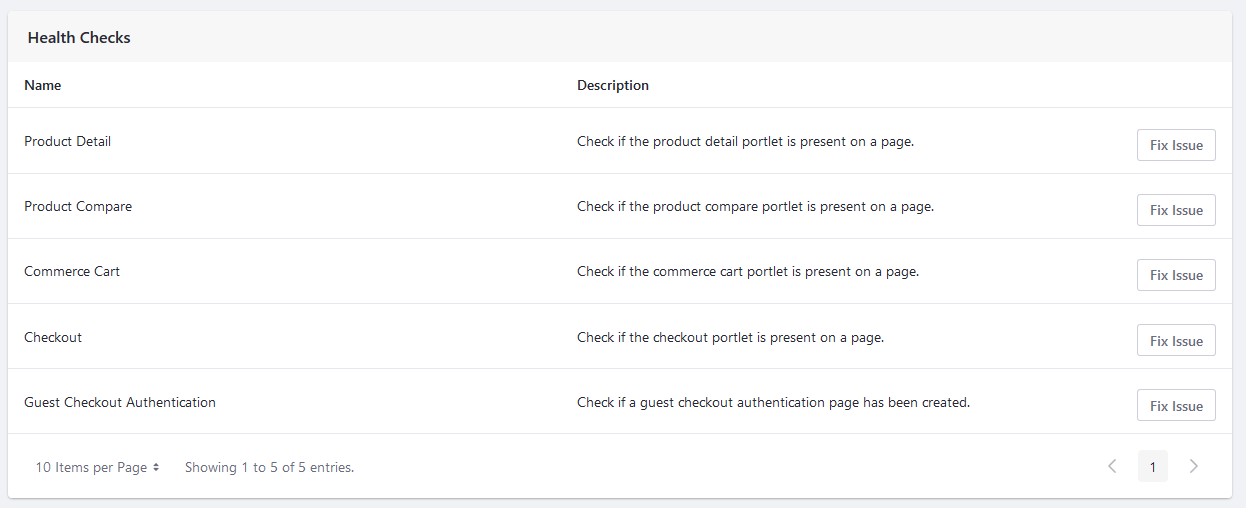
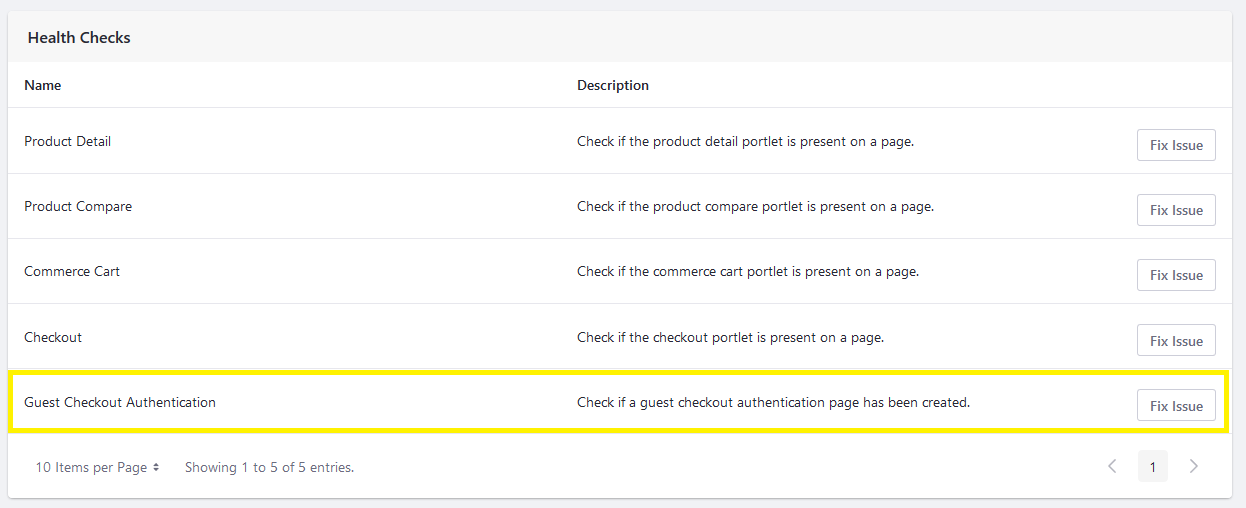
LRDOCS-8096 - updating enabling guest checkout

Changed region(s): [[0.0, 0.7087, 1.0, 0.8563]]

diff --git a/docs/commerce/2.x/en/store-administration/guest-checkout/enabling-guest-checkout.md b/docs/commerce/2.x/en/store-administration/guest-checkout/enabling-guest-checkout.md
@@ -23,13 +23,17 @@ Guest customers can now add items to the cart and proceed to checkout without lo
 
 ## Adding the Continuing as Guest Option
 
-To enhance the Guest Checkout option, you can create a separate authentication page where guest customers have several options.
+To allow customers to continue their checkout process as a Guest user, you can create a separate authentication page where guest customers have several checkout options.
 
-* They can sign in if they have an account.
-* They can create a new account.
+* They can sign in if they have an account. They can view all their account information, including past orders.
+* They can create a new account if they are a new customer.
 * They can continue as a Guest, entering only the data necessary to complete the transaction. They can register later or log in now to make future orders more easily.
 
 ![Customers have a choice of signing in or continuing as Guest.](./enabling-guest-checkout/images/05.png)
+
+```tip::
+   The site page above was generated using the Speedwell accelerator. You can use other accelerators such as Minium to generate these pages and customize them later.
+```
 
 Follow the steps below to generate this authentication page:
 
@@ -41,7 +45,13 @@ Follow the steps below to generate this authentication page:
 1. Click on the desired channel (for example _Everest Portal_).
 1. On the General tab's Health Checks section, click _Fix Issue_ next to Guest Checkout Authentication. This creates a new authentication page with an option to sign in as Guest.
 
-Click Save again when finished.
+    ![Access Commerce settings in the Global Commerce menu.](./enabling-guest-checkout/images/02.png)
+
+1. Click Save again when finished.
+
+```note::
+   The new page inherits whatever default theme the site is using. For more information about how to configure pages themes and templates, see `Managing Master Page Templates <https://learn.liferay.com/dxp/7.x/en/site-building/creating-pages/defining-headers-and-footers/managing-master-pages.html>`_ and `Look and Feel <https://learn.liferay.com/dxp/7.x/en/site-building/creating-pages/building-and-managing-content-pages/content-pages-overview.html#look-and-feel>`_.
+```
 
 ## Commerce 2.1 and Below
 
